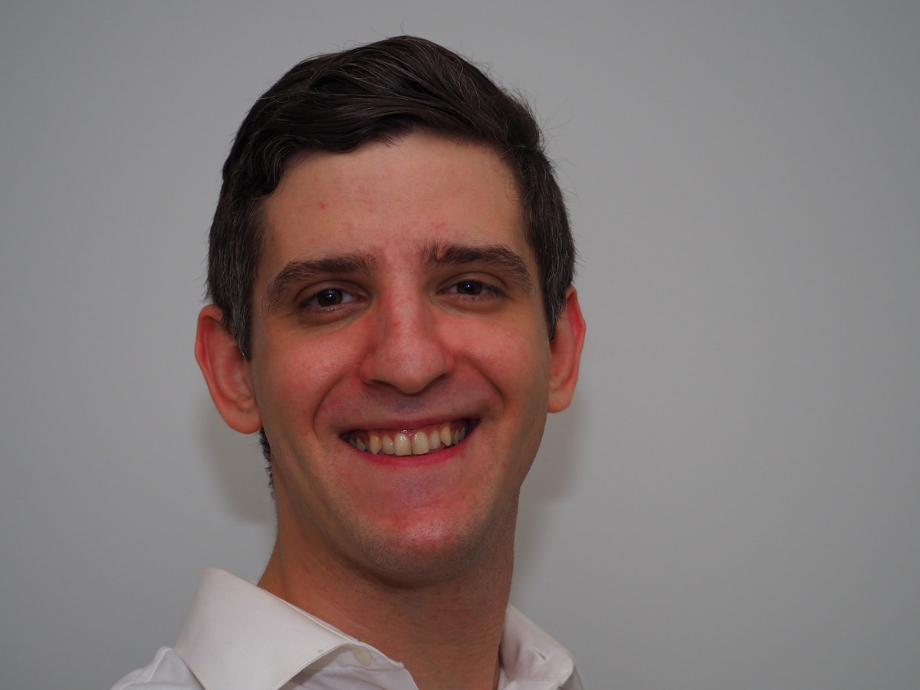
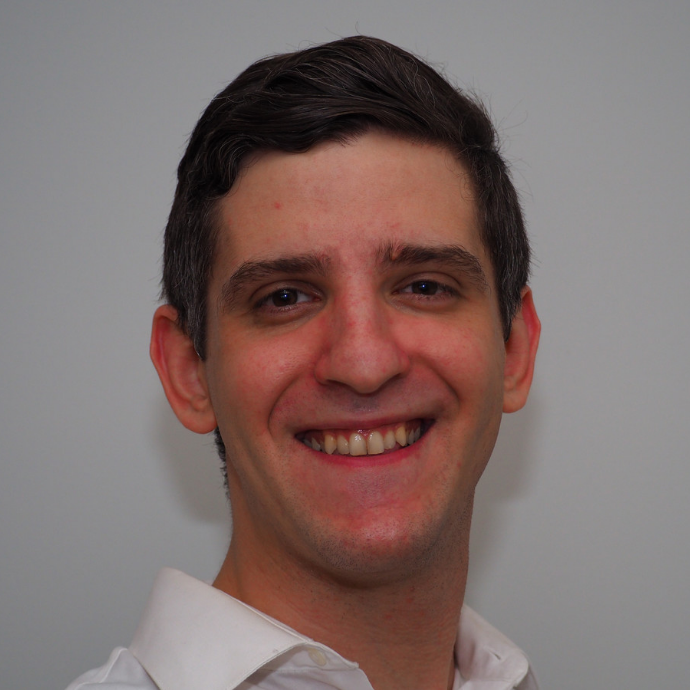
added footer and bio pic

diff --git a/src/components/style.min.css b/src/components/style.min.css
@@ -1,0 +1,1 @@
+.vertical-timeline *{box-sizing:border-box}.vertical-timeline{width:95%;max-width:1170px;margin:2em auto;position:relative;padding:2em 0}.vertical-timeline::after{content:'';display:table;clear:both}.vertical-timeline::before{content:'';position:absolute;top:0;left:18px;height:100%;width:4px;background:#fff}@media only screen and (min-width:1170px){.vertical-timeline.vertical-timeline--two-columns{margin-top:3em;margin-bottom:3em;width:90%}.vertical-timeline.vertical-timeline--two-columns:before{left:50%;margin-left:-2px}}.vertical-timeline-element{position:relative;margin:2em 0}.vertical-timeline-element>div{min-height:1px}.vertical-timeline-element:after{content:"";display:table;clear:both}.vertical-timeline-element:first-child{margin-top:0}.vertical-timeline-element:last-child{margin-bottom:0}@media only screen and (min-width:1170px){.vertical-timeline-element{margin:4em 0}.vertical-timeline-element:first-child{margin-top:0}.vertical-timeline-element:last-child{margin-bottom:0}}.vertical-timeline-element-icon{position:absolute;top:0;left:0;width:40px;height:40px;border-radius:50%;box-shadow:0 0 0 4px #fff,inset 0 2px 0 rgba(0,0,0,.08),0 3px 0 4px rgba(0,0,0,.05)}.vertical-timeline-element-icon svg{display:block;width:24px;height:24px;position:relative;left:50%;top:50%;margin-left:-12px;margin-top:-12px}@media only screen and (min-width:1170px){.vertical-timeline--two-columns .vertical-timeline-element-icon{width:60px;height:60px;left:50%;margin-left:-30px}}.vertical-timeline-element-icon{-webkit-transform:translateZ(0);-webkit-backface-visibility:hidden}.vertical-timeline--animate .vertical-timeline-element-icon.is-hidden{visibility:hidden}.vertical-timeline--animate .vertical-timeline-element-icon.bounce-in{visibility:visible;-webkit-animation:cd-bounce-1 .6s;-moz-animation:cd-bounce-1 .6s;animation:cd-bounce-1 .6s}@-webkit-keyframes cd-bounce-1{0%{opacity:0;-webkit-transform:scale(.5)}60%{opacity:1;-webkit-transform:scale(1.2)}100%{-webkit-transform:scale(1)}}@-moz-keyframes cd-bounce-1{0%{opacity:0;-moz-transform:scale(.5)}60%{opacity:1;-moz-transform:scale(1.2)}100%{-moz-transform:scale(1)}}@keyframes cd-bounce-1{0%{opacity:0;-webkit-transform:scale(.5);-moz-transform:scale(.5);-ms-transform:scale(.5);-o-transform:scale(.5);transform:scale(.5)}60%{opacity:1;-webkit-transform:scale(1.2);-moz-transform:scale(1.2);-ms-transform:scale(1.2);-o-transform:scale(1.2);transform:scale(1.2)}100%{-webkit-transform:scale(1);-moz-transform:scale(1);-ms-transform:scale(1);-o-transform:scale(1);transform:scale(1)}}.vertical-timeline-element-content{position:relative;margin-left:60px;background:#fff;border-radius:.25em;padding:1em;box-shadow:0 3px 0 #ddd}.vertical-timeline-element--no-children .vertical-timeline-element-content{background:0 0;box-shadow:none}.vertical-timeline-element-content:after{content:"";display:table;clear:both}.vertical-timeline-element-content h2{color:#303e49}.vertical-timeline-element-content .vertical-timeline-element-date,.vertical-timeline-element-content p{font-size:13px;font-size:.8125rem;font-weight:500;color:#333}.vertical-timeline-element-content .vertical-timeline-element-date{display:inline-block}.vertical-timeline-element-content p{margin:1em 0 0;line-height:1.6}.vertical-timeline-element-title{margin:0}.vertical-timeline-element-subtitle{margin:0}.vertical-timeline-element-content .vertical-timeline-element-date{float:left;padding:.8em 0;opacity:.7}.vertical-timeline-element-content::before{content:'';position:absolute;top:16px;right:100%;height:0;width:0;border:7px solid transparent;border-right:7px solid #fff}.vertical-timeline-element--no-children .vertical-timeline-element-content::before{display:none}@media only screen and (min-width:768px){.vertical-timeline-element-content h2{font-size:20px;font-size:1.25rem}.vertical-timeline-element-content p{font-size:16px;font-size:1rem}.vertical-timeline-element-content .vertical-timeline-element-date{font-size:14px;font-size:.875rem}}@media only screen and (min-width:1170px){.vertical-timeline--two-columns .vertical-timeline-element-content{margin-left:0;padding:1.5em;width:44%}.vertical-timeline--two-columns .vertical-timeline-element-content::before{top:24px;left:100%;border-color:transparent;border-left-color:#fff}.vertical-timeline--two-columns .vertical-timeline-element-content .vertical-timeline-element-date{position:absolute;width:100%;left:124%;top:6px;font-size:16px;font-size:1rem}.vertical-timeline--two-columns .vertical-timeline-element.vertical-timeline-element--right .vertical-timeline-element-content,.vertical-timeline--two-columns .vertical-timeline-element:nth-child(even):not(.vertical-timeline-element--left) .vertical-timeline-element-content{float:right}.vertical-timeline--two-columns .vertical-timeline-element.vertical-timeline-element--right .vertical-timeline-element-content::before,.vertical-timeline--two-columns .vertical-timeline-element:nth-child(even):not(.vertical-timeline-element--left) .vertical-timeline-element-content::before{top:24px;left:auto;right:100%;border-color:transparent;border-right-color:#fff}.vertical-timeline--two-columns .vertical-timeline-element.vertical-timeline-element--right .vertical-timeline-element-content .vertical-timeline-element-date,.vertical-timeline--two-columns .vertical-timeline-element:nth-child(even):not(.vertical-timeline-element--left) .vertical-timeline-element-content .vertical-timeline-element-date{left:auto;right:124%;text-align:right}}.vertical-timeline--animate .vertical-timeline-element-content.is-hidden{visibility:hidden}.vertical-timeline--animate .vertical-timeline-element-content.bounce-in{visibility:visible;-webkit-animation:cd-bounce-2 .6s;-moz-animation:cd-bounce-2 .6s;animation:cd-bounce-2 .6s}@media only screen and (min-width:1170px){.vertical-timeline--two-columns.vertical-timeline--animate .vertical-timeline-element.vertical-timeline-element--right .vertical-timeline-element-content.bounce-in,.vertical-timeline--two-columns.vertical-timeline--animate .vertical-timeline-element:nth-child(even):not(.vertical-timeline-element--left) .vertical-timeline-element-content.bounce-in{-webkit-animation:cd-bounce-2-inverse .6s;-moz-animation:cd-bounce-2-inverse .6s;animation:cd-bounce-2-inverse .6s}}@media only screen and (max-width:1169px){.vertical-timeline--animate .vertical-timeline-element-content.bounce-in{visibility:visible;-webkit-animation:cd-bounce-2-inverse .6s;-moz-animation:cd-bounce-2-inverse .6s;animation:cd-bounce-2-inverse .6s}}@-webkit-keyframes cd-bounce-2{0%{opacity:0;-webkit-transform:translateX(-100px)}60%{opacity:1;-webkit-transform:translateX(20px)}100%{-webkit-transform:translateX(0)}}@-moz-keyframes cd-bounce-2{0%{opacity:0;-moz-transform:translateX(-100px)}60%{opacity:1;-moz-transform:translateX(20px)}100%{-moz-transform:translateX(0)}}@keyframes cd-bounce-2{0%{opacity:0;-webkit-transform:translateX(-100px);-moz-transform:translateX(-100px);-ms-transform:translateX(-100px);-o-transform:translateX(-100px);transform:translateX(-100px)}60%{opacity:1;-webkit-transform:translateX(20px);-moz-transform:translateX(20px);-ms-transform:translateX(20px);-o-transform:translateX(20px);transform:translateX(20px)}100%{-webkit-transform:translateX(0);-moz-transform:translateX(0);-ms-transform:translateX(0);-o-transform:translateX(0);transform:translateX(0)}}@-webkit-keyframes cd-bounce-2-inverse{0%{opacity:0;-webkit-transform:translateX(100px)}60%{opacity:1;-webkit-transform:translateX(-20px)}100%{-webkit-transform:translateX(0)}}@-moz-keyframes cd-bounce-2-inverse{0%{opacity:0;-moz-transform:translateX(100px)}60%{opacity:1;-moz-transform:translateX(-20px)}100%{-moz-transform:translateX(0)}}@keyframes cd-bounce-2-inverse{0%{opacity:0;-webkit-transform:translateX(100px);-moz-transform:translateX(100px);-ms-transform:translateX(100px);-o-transform:translateX(100px);transform:translateX(100px)}60%{opacity:1;-webkit-transform:translateX(-20px);-moz-transform:translateX(-20px);-ms-transform:translateX(-20px);-o-transform:translateX(-20px);transform:translateX(-20px)}100%{-webkit-transform:translateX(0);-moz-transform:translateX(0);-ms-transform:translateX(0);-o-transform:translateX(0);transform:translateX(0)}}

diff --git a/src/components/home.js b/src/components/home.js
@@ -1,22 +1,36 @@
 import React from 'react';
-import { Jumbotron, Navbar, NavbarBrand, Nav,Button,Image } from 'react-bootstrap';
+import { Jumbotron, Navbar, NavbarBrand, Nav, Button, Image } from 'react-bootstrap';
 import jumbotronBackground from '../../src/jumbotron.jpg';
 import NavBarComponent from './NavBarComponent';
+import FooterComponent from './FooterComponent';
 import me from '../assets/img/chris-warner.png';
+import './home.css';
+
 function Home() {
   return (
     <div>
-      <NavBarComponent />
- 
-      {/* <img src={me} alt="Chris Warner" height="142" width="142" /> */}
-      <Jumbotron style={jumbotronStyle}>
-        <h1 style={centerText}>Chris Warner</h1>
-        <p style={centerText}> My name is Chris Warner. I am a Full Stack Developer as well and a graduate of Columbia University. I have a strong commitment to teamwork and highly motivated to help others succeed. I started programming c# in the 7th grade and worked in the computer repair industry. I am also a musician and have worked on ambitious music productions and indie films. I am Highly creative in regards to problem-solving and innovation development, and I have taken my creativity and applied it to my programming.
-    My skills include HTML5, CSS, M.E.R.N development stack, MySQL, MongoDB, React, JavaScript, HandleBars, MVC, as well as the ability to learn new languages quickly. During my studies, I have developed an app that generates a personalized investing strategy (mindstock) and another that allows you find top notch restaurants (ZipCrunch). For my final project I developed a platform that allows you to rent dogs from local shelter’s.</p>
-      {/* <Button style={btnStyle}>Portfolio</Button> */}
-      </Jumbotron>
 
+      <NavBarComponent />
+      <div class="container d-flex align-items-center flex-column">
+        <br></br>
+        <img class="masthead-avatar mb-5" src={me} alt="" />
+        <h1 class="masthead-heading text-uppercase mb-0">Chris Warner</h1>
+        <div class="divider-custom divider-light">
+          <div class="divider-custom-line"></div>
+          <div class="divider-custom-icon">
+            <i class="fas fa-star"></i>
+          </div>
+          <div class="divider-custom-line"></div>
+        </div>
+
+        <p class="masthead-subheading font-weight-light mb-0">Chris Warner - Web Designer - Full Stack Development</p>
+        <p style={centerText}> My name is Chris Warner. I am a Full Stack Developer as well and a graduate of Columbia University. I have a strong commitment to teamwork and highly motivated to help others succeed. I started programming c# in the 7th grade and worked in the computer repair industry. I am also a musician and have worked on ambitious music productions and indie films. I am Highly creative in regards to problem-solving and innovation development, and I have taken my creativity and applied it to my programming.
+    My skills include HTML5, CSS, M.E.R.N development stack, MySQL, MongoDB, React, JavaScript, HandleBars, MVC, as well as the ability to learn new languages quickly. During my studies, I have developed an app that generates a personalized investing strategy (mindstock) and another that allows you find top notch restaurants (ZipCrunch). For my final project I developed a platform that allows you to rent dogs from local shelter’s.</p><br></br><br></br><br></br>
+        {/* <Button style={btnStyle}>Portfolio</Button> */}
+      </div>
+      <FooterComponent />
     </div>
+
   );
 }
 
@@ -25,9 +39,9 @@ const btnStyle = {
   display: 'flex',
   justifyContent: 'center',
   margin: '-20px -50px',
-  position:'relative',
-  top:'50%',
-  left:'50%',
+  position: 'relative',
+  top: '50%',
+  left: '50%',
   alignText: 'center'
 
 }
@@ -50,9 +64,6 @@ const jumbotronStyle = {
   //backgroundImage: 'url(' + jumbotronBackground + ')'
 }
 
-const navbarStyle = {
-  height: '100px',
-}
 
 const navbarTextStyle = {
   color: 'black',

diff --git a/src/components/NavBarComponent.js b/src/components/NavBarComponent.js
@@ -5,14 +5,14 @@ import './NavBarComponent.css';
 function NavBarComponent() {
   return (
     <div>
-      <Navbar style={navbarStyle} collapseOnSelect expand="lg" bg="#4285f4" variant="light">
+      <Navbar style={navbarStyle} collapseOnSelect expand="lg" bg="#2c3e50" variant="light">
         <Navbar.Brand style={navbarStyle} href="/react-portfolio/#/">React-Portfolio</Navbar.Brand>
-        <Navbar.Toggle style={navbarStyle} bg="#4285f4" aria-controls="responsive-navbar-nav" />
+        <Navbar.Toggle style={navbarStyle} bg="#2c3e50" aria-controls="responsive-navbar-nav" />
         <Navbar.Collapse style={navbarStyle} id="responsive-navbar-nav">
           <Nav style={navbarStyle} className="mr-auto">
             <Nav.Link  style={navbarStyle} href="/react-portfolio/#/">Home</Nav.Link>
             <Nav.Link style={navbarStyle}  href="/react-portfolio/#/portfolio">Portfolio</Nav.Link>
-            <NavDropdown style={navbarStyle} color="white" bg="#4285f4" title="Social" id="basic-nav-dropdown-light">
+            <NavDropdown style={navbarStyle} color="white" bg="#2c3e50" title="Social" variant="light" id="basic-nav-dropdown-light">
               <NavDropdown.Item href="https://github.com/chris-warner/">GitHub</NavDropdown.Item>
               <NavDropdown.Item href="https://www.linkedin.com/in/chris-warner-developer/">LinkedIn</NavDropdown.Item>
               <NavDropdown.Item href="chriswarnertech@gmail.com">Email</NavDropdown.Item>
@@ -26,8 +26,8 @@ function NavBarComponent() {
 
 const navbarStyle = {
  color:"white",
- bg:"#4285f4",
- backgroundColor:"#4285f4"
+ bg:"#2c3e50",
+ backgroundColor:"#2c3e50"
 }
 
 

diff --git a/src/components/portfolio.js b/src/components/portfolio.js
@@ -1,13 +1,17 @@
 import React from 'react';
-import jumbotronBackground from '../../src/jumbotron.jpg';
+import jumbotronBackground from '../../src/components/react.png';
 import NavBarComponent from './NavBarComponent';
 import VerticleTimeline from './VerticleTimeline';
+import FooterComponent from './FooterComponent';
+import { Jumbotron } from 'react-bootstrap';
 
 function Portfolio() {
     return (     
     <div>
       <NavBarComponent />
+      <center><h1 style={titleStyle}>Projects and development.</h1></center>
       <VerticleTimeline />
+      <FooterComponent />
     </div>
   );
 }
@@ -22,14 +26,16 @@ const centerText = {
   }
    
   const jumbotronStyle = {
-    height: '400px',
+    height: '300px',
     // backgroundImage: 'url(' + background + ')',
-    backgroundSize: 'cover',
     align: 'center',
-    color: 'white',
-    backgroundColor:'silver',
-    backgroundImage: 'url('+jumbotronBackground+')'
-  }
+    color: 'black',
+    textAlign: 'center',
+    verticalAlign: 'middle',
+    lineHeight: '90px',
+    paddingTop:'100px'
+}
+  
   
   const navbarStyle = {
     height: '100px',
@@ -39,5 +45,9 @@ const centerText = {
     color: 'black',
     marginRight: '12px',
     alignText: 'center'
+  }
+
+  const titleStyle = {
+    marginTop:'32px'
   }
 export default Portfolio;

diff --git a/src/components/FooterComponent.js b/src/components/FooterComponent.js
@@ -1,0 +1,18 @@
+import React from 'react';
+import './FooterComponent.css';
+
+function FooterComponent() {
+
+return (
+  <footer id="sticky-footer" class=" footer py-4 bg-dark text-white-50">
+    <div class="container text-center">
+      {/* <small>Follow me on: </small> */}
+     <small> <a href="github.com/chris-warner">GitHub </a>
+      <a href="https://www.linkedin.com/in/chris-warner-developer/">LinkedIn</a></small>
+
+    </div>
+  </footer>
+);
+}
+
+export default FooterComponent;

diff --git a/src/components/VerticleTimeline.js b/src/components/VerticleTimeline.js
@@ -1,7 +1,7 @@
 import React from 'react';
 import { Jumbotron, Navbar, NavbarBrand, Nav,NavDropdown, Button, ButtonGroup } from 'react-bootstrap';
 import { VerticalTimeline, VerticalTimelineElement,WorkIcon }  from 'react-vertical-timeline-component';
-import 'react-vertical-timeline-component/style.min.css';
+import './style.min.css';
 
 function VerticleTimeline() {
     return (

diff --git a/src/components/FooterComponent.css b/src/components/FooterComponent.css
@@ -1,0 +1,12 @@
+.footer  {
+ position: fixed;
+bottom: 0;
+width: 100%;
+/* Set the fixed height of the footer here */
+height: 60px;
+background-color: #f5f5f5;
+}
+
+#sticky-footer {
+    background-color: rgb(44, 62, 80)!important;
+}

diff --git a/src/components/home.css b/src/components/home.css
@@ -1,0 +1,5 @@
+img {
+    height:150px;
+    border-radius: 25%;
+    margin-top:16px;
+}
